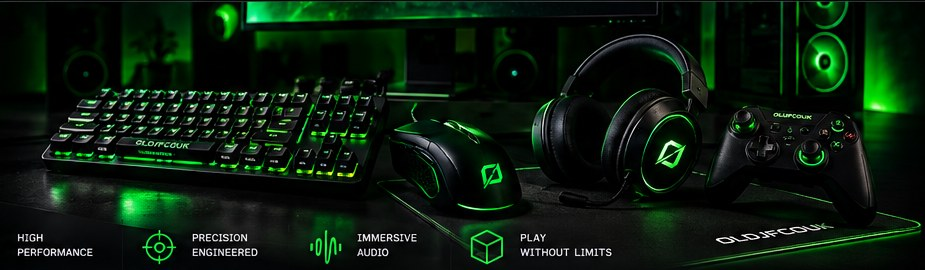
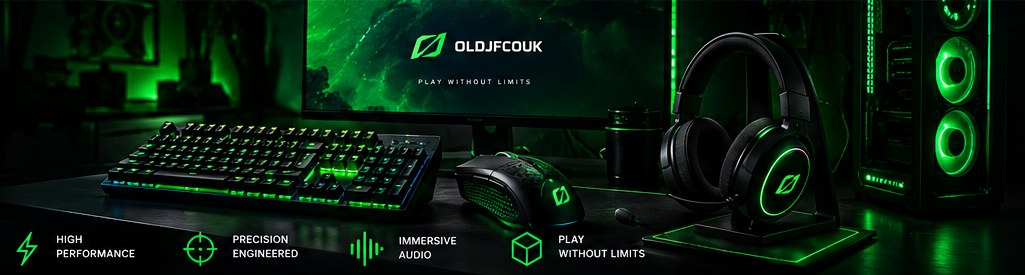
Add files via upload

diff --git a/styles.css b/styles.css
@@ -1,17 +1,1 @@
-
-*{box-sizing:border-box}html{scroll-behavior:smooth}body{margin:0;background:#020604;color:#f6f7f6;font-family:Arial,Helvetica,sans-serif}a{text-decoration:none;color:inherit}
-header{height:72px;padding:0 4.5%;display:grid;grid-template-columns:1fr auto 1fr;align-items:center;border-bottom:1px solid #26352b;position:sticky;top:0;z-index:20;background:rgba(2,6,4,.96)}
-.brand{font-size:18px;font-weight:900;letter-spacing:3px}.brand i{display:inline-block;width:17px;height:17px;margin-right:12px;background:#37ff55;transform:skew(-15deg)}
-nav{display:flex;gap:42px;font-size:11px;font-weight:900}.cart{justify-self:end;background:transparent;color:white;border:1px solid #3c4a40;padding:13px 20px;font-weight:900}
-.hero{min-height:520px;display:grid;grid-template-columns:40% 60%;border-bottom:1px solid #26352b;overflow:hidden}.copy{padding:75px 7%}.eyebrow,.products small,.statement small{font-size:11px;letter-spacing:6px;color:#37ff55;font-weight:900}
-h1{font-size:74px;line-height:.82;margin:18px 0 25px;font-style:italic}h1 em{color:#37ff55;font-style:italic}.sub{font-size:14px;letter-spacing:4px;line-height:1.7;color:#d2d7d3}
-.primary{display:inline-block;margin-top:28px;border:1px solid #37ff55;color:#37ff55;padding:16px 24px;font-size:12px;font-weight:900}.heroimg{min-width:0}.heroimg img{width:100%;height:100%;object-fit:cover;display:block}
-.features{padding:24px 5%;display:grid;grid-template-columns:repeat(4,1fr);border-bottom:1px solid #26352b;font-size:10px;font-weight:900;text-align:center}
-.products{padding:55px 4.5% 70px}.heading{display:flex;align-items:end;justify-content:space-between;margin-bottom:28px}.heading h2{font-size:40px;font-style:italic;margin:8px 0}.heading p{color:#b9c2bc}
-.grid{display:grid;grid-template-columns:repeat(3,1fr);gap:14px}.card{border:1px solid #2d3c32;background:#040905;overflow:hidden}.card>img{width:100%;aspect-ratio:16/7;object-fit:cover;display:block;transition:.35s}.card:hover>img{transform:scale(1.025)}
-.cardbody{padding:16px}.name{display:flex;align-items:center;gap:15px}.name b{font-size:26px;color:#37ff55}.name span{font-size:11px;font-weight:900}.card p{color:#bec8c1;margin:10px 0 17px}.add{width:100%;padding:14px;background:transparent;border:1px solid #415147;color:white;font-weight:900;cursor:pointer}.add:hover{border-color:#37ff55;color:#37ff55}
-.statement{padding:75px 5%;border-top:1px solid #26352b;background:#060b07}.statement h3{font-size:55px;line-height:.9;margin:18px 0}.statement p{color:#b9c2bc}
-footer{border-top:1px solid #26352b;padding:30px 5%;display:flex;justify-content:space-between;font-size:11px;letter-spacing:2px;color:#89958d}
-#toast{position:fixed;right:25px;bottom:25px;background:#37ff55;color:#001805;padding:14px 20px;font-weight:900;display:none;z-index:30}
-@media(max-width:900px){header{grid-template-columns:1fr auto}nav{display:none}.hero{grid-template-columns:1fr}.copy{padding:55px 6%}h1{font-size:58px}.heroimg img{height:340px}.features{grid-template-columns:1fr 1fr;gap:20px}.grid{grid-template-columns:1fr 1fr}.heading{display:block}}
-@media(max-width:600px){.grid{grid-template-columns:1fr}.features{grid-template-columns:1fr}.heroimg img{height:260px}.statement h3{font-size:42px}footer{gap:15px;flex-direction:column}}
+*{box-sizing:border-box}html{scroll-behavior:smooth}body{margin:0;background:#020604;color:#f5f7f5;font-family:Arial,Helvetica,sans-serif}header{height:74px;padding:0 5%;display:flex;align-items:center;border-bottom:1px solid #243029;position:sticky;top:0;background:#020604f2;z-index:5}.brand{font-size:20px;font-weight:900;letter-spacing:2px;color:#fff;text-decoration:none}.brand:first-letter{color:#39ff54}nav{margin:auto;display:flex;gap:42px}nav a{color:#fff;text-decoration:none;font-size:12px;font-weight:800}.cart,article button{background:transparent;color:#fff;border:1px solid #48534d;font-weight:900;padding:13px 22px}.hero{min-height:430px;display:grid;grid-template-columns:38% 62%;border-bottom:1px solid #26322b}.copy{padding:65px 6%}.copy small,.products small,.about small{color:#39ff54;font-weight:900;letter-spacing:5px}.copy h1{font-size:64px;line-height:.86;margin:18px 0}.copy h1 b{color:#39ff54}.copy p{font-weight:800;letter-spacing:4px;line-height:1.6}.cta{display:inline-block;margin-top:15px;padding:15px 25px;border:1px solid #39ff54;color:#39ff54;text-decoration:none;font-weight:900}.hero img{width:100%;height:430px;object-fit:cover}.features{padding:24px 5%;display:grid;grid-template-columns:repeat(4,1fr);border-bottom:1px solid #26322b;font-size:12px;font-weight:900;text-align:center}.products{padding:55px 5%}.sectionhead{display:flex;justify-content:space-between;align-items:end}.sectionhead h2{font-size:38px;margin:10px 0 25px}.sectionhead p{color:#b8c1bb}.grid{display:grid;grid-template-columns:repeat(3,1fr);gap:16px}.grid article{border:1px solid #304038;padding:12px;background:#050b07}.grid img{width:100%;height:230px;object-fit:cover}.grid h3{font-size:13px;letter-spacing:1px}.grid h3 b{color:#39ff54;font-size:25px;margin-right:12px}.grid p{color:#c6cec9}.grid button{width:100%;cursor:pointer}.grid button:hover{border-color:#39ff54;color:#39ff54}.about{margin-top:30px;padding:70px 6%;border-top:1px solid #26322b;background:#071009}.about h2{font-size:38px}footer{padding:30px 5%;border-top:1px solid #26322b;display:flex;justify-content:space-between}footer span{color:#39ff54;font-size:11px;letter-spacing:3px}#toast{position:fixed;right:25px;bottom:25px;padding:14px 20px;background:#39ff54;color:#001505;font-weight:900;opacity:0;transition:.2s}#toast.show{opacity:1}@media(max-width:800px){nav{display:none}.hero{grid-template-columns:1fr}.hero img{height:300px}.copy h1{font-size:50px}.features{grid-template-columns:1fr 1fr;gap:20px}.grid{grid-template-columns:1fr}.sectionhead{display:block}}

diff --git a/index.html b/index.html
@@ -1,38 +1,20 @@
 <!doctype html>
 <html lang="en"><head><meta charset="utf-8"><meta name="viewport" content="width=device-width,initial-scale=1">
-<title>OLDJFCOUK — Built to Play</title>
-<link rel="stylesheet" href="styles.css"></head>
+<title>OLDJFCOUK — Built to Play</title><link rel="stylesheet" href="styles.css"></head>
 <body>
-<header>
-  <a class="brand" href="#"><i></i>OLDJFCOUK</a>
-  <nav><a href="#">HOME</a><a href="#products">PRODUCTS</a><a href="#about">ABOUT</a><a href="#support">SUPPORT</a></nav>
-  <button class="cart">CART (<span id="cartCount">0</span>)</button>
-</header>
+<header><a class="brand" href="#">◩ OLDJFCOUK</a><nav><a href="#">HOME</a><a href="#products">PRODUCTS</a><a href="#about">ABOUT</a><a href="#support">SUPPORT</a></nav><button class="cart">CART (<span id="count">0</span>)</button></header>
 <main>
-<section class="hero">
- <div class="copy"><div class="eyebrow">GAMING TECHNOLOGY</div><h1>BUILT TO<br><em>PLAY.</em></h1>
- <div class="sub">HIGH-PERFORMANCE GEAR<br>PRECISION. IMMERSION. NO LIMITS.</div>
- <a class="primary" href="#products">EXPLORE PRODUCTS →</a></div>
- <div class="heroimg"><img src="assets/hero.jpg" alt="OLDJFCOUK gaming gear"></div>
-</section>
-<div class="features"><span>⚡ HIGH PERFORMANCE</span><span>⊙ PRECISION ENGINEERED</span><span>〽 IMMERSIVE AUDIO</span><span>◇ PLAY WITHOUT LIMITS</span></div>
-<section id="products" class="products">
- <div class="heading"><div><small>OUR PRODUCTS</small><h2>GAMING DIVISION</h2></div><p>Performance gear for players who demand more.</p></div>
- <div class="grid">
-<article class="card"><img src="assets/j1.jpg" alt="MECHANICAL KEYBOARD">
-<div class="cardbody"><div class="name"><b>J1</b><span>MECHANICAL KEYBOARD</span></div><p>Precision at your fingertips.</p>
-<button class="add">ADD TO CART +</button></div></article><article class="card"><img src="assets/j2.jpg" alt="ULTRA-LIGHT MOUSE">
-<div class="cardbody"><div class="name"><b>J2</b><span>ULTRA-LIGHT MOUSE</span></div><p>Speed meets control.</p>
-<button class="add">ADD TO CART +</button></div></article><article class="card"><img src="assets/j3.jpg" alt="WIRELESS HEADSET">
-<div class="cardbody"><div class="name"><b>J3</b><span>WIRELESS HEADSET</span></div><p>Hear every move.</p>
-<button class="add">ADD TO CART +</button></div></article><article class="card"><img src="assets/j4.jpg" alt="PERFORMANCE CONTROLLER">
-<div class="cardbody"><div class="name"><b>J4</b><span>PERFORMANCE CONTROLLER</span></div><p>Play your way.</p>
-<button class="add">ADD TO CART +</button></div></article><article class="card"><img src="assets/j5.jpg" alt="EXTENDED MOUSEPAD">
-<div class="cardbody"><div class="name"><b>J5</b><span>EXTENDED MOUSEPAD</span></div><p>More space. More wins.</p>
-<button class="add">ADD TO CART +</button></div></article><article class="card"><img src="assets/jx.jpg" alt="ULTIMATE GAMING SETUP">
-<div class="cardbody"><div class="name"><b>JX</b><span>ULTIMATE GAMING SETUP</span></div><p>Everything you need.</p>
-<button class="add">ADD TO CART +</button></div></article></div></section>
-<section id="about" class="statement"><small>OLDJFCOUK / GAMING</small><h3>PLAY WITHOUT<br>LIMITS.</h3><p>Performance hardware built around speed, control and immersion.</p></section>
-</main>
-<footer id="support"><b>OLDJFCOUK</b><span>BUILT TO PLAY.</span><span>© 2026 OLDJFCOUK</span></footer>
-<div id="toast">ADDED TO CART ✓</div><script src="script.js"></script></body></html>
+<section class="hero"><div class="copy"><small>GAMING TECHNOLOGY</small><h1>BUILT TO<br><b>PLAY.</b></h1><p>HIGH-PERFORMANCE GEAR<br>PRECISION. IMMERSION. NO LIMITS.</p><a href="#products" class="cta">EXPLORE PRODUCTS →</a></div><img src="assets/hero.jpg" alt="OLDJFCOUK gaming setup"></section>
+<div class="features"><span>ϟ HIGH PERFORMANCE</span><span>⊙ PRECISION ENGINEERED</span><span>⌁ IMMERSIVE AUDIO</span><span>◇ PLAY WITHOUT LIMITS</span></div>
+<section id="products" class="products"><div class="sectionhead"><div><small>OUR PRODUCTS</small><h2>GAMING DIVISION</h2></div><p>Performance gear for players who demand more.</p></div>
+<div class="grid">
+<article><img src="assets/keyboard.jpg" alt="Mechanical gaming keyboard"><h3><b>J1</b> MECHANICAL KEYBOARD</h3><p>Precision at your fingertips.</p><button>Add to cart +</button></article>
+<article><img src="assets/mouse.jpg" alt="Ultra-light gaming mouse"><h3><b>J2</b> ULTRA-LIGHT MOUSE</h3><p>Speed meets control.</p><button>Add to cart +</button></article>
+<article><img src="assets/headset.jpg" alt="Wireless gaming headset"><h3><b>J3</b> WIRELESS HEADSET</h3><p>Hear every move.</p><button>Add to cart +</button></article>
+<article><img src="assets/controller.jpg" alt="Performance gaming controller"><h3><b>J4</b> PERFORMANCE CONTROLLER</h3><p>Play your way.</p><button>Add to cart +</button></article>
+<article><img src="assets/mousepad.jpg" alt="Extended gaming mousepad"><h3><b>J5</b> EXTENDED MOUSEPAD</h3><p>More space. More wins.</p><button>Add to cart +</button></article>
+<article><img src="assets/setup.jpg" alt="Ultimate gaming setup"><h3><b>JX</b> ULTIMATE GAMING SETUP</h3><p>Everything you need.</p><button>Add to cart +</button></article>
+</div></section>
+<section id="about" class="about"><small>OLDJFCOUK</small><h2>PERFORMANCE. PRECISION. PLAY.</h2><p>Gaming technology engineered for fast response, immersive play and a distinctive identity.</p></section>
+</main><footer id="support"><b>OLDJFCOUK</b><span>BUILT TO PLAY.</span></footer>
+<div id="toast">ADDED TO CART</div><script src="script.js"></script></body></html>

diff --git a/script.js b/script.js
@@ -1,1 +1,1 @@
-let count=0;document.querySelectorAll('.add').forEach(b=>b.addEventListener('click',()=>{count++;document.getElementById('cartCount').textContent=count;const t=document.getElementById('toast');t.style.display='block';clearTimeout(window.tt);window.tt=setTimeout(()=>t.style.display='none',1200)}));
+let n=0;const c=document.getElementById('count'),t=document.getElementById('toast');document.querySelectorAll('article button').forEach(b=>b.onclick=()=>{c.textContent=++n;t.classList.add('show');setTimeout(()=>t.classList.remove('show'),900)});

diff --git a/README.md b/README.md
@@ -1,2 +1,3 @@
-# OLDJFCOUK GAMING FINAL
-Static GitHub Pages site. Upload index.html, styles.css, script.js and the assets folder to the repository root.
+# OLDJFCOUK Store
+
+Static GitHub Pages website. Upload all files and the assets folder to the repository root.
